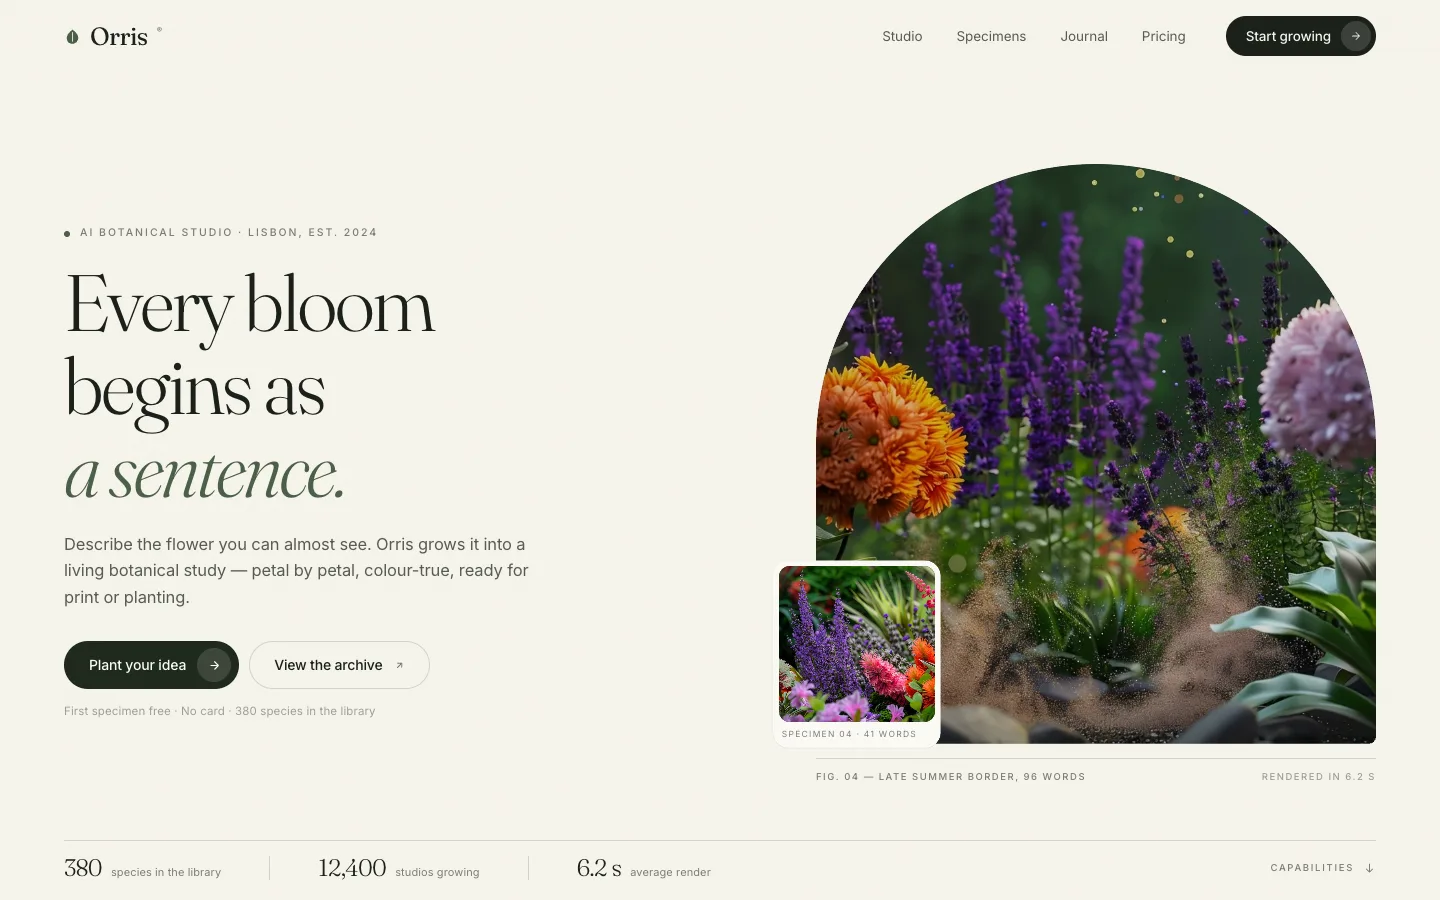
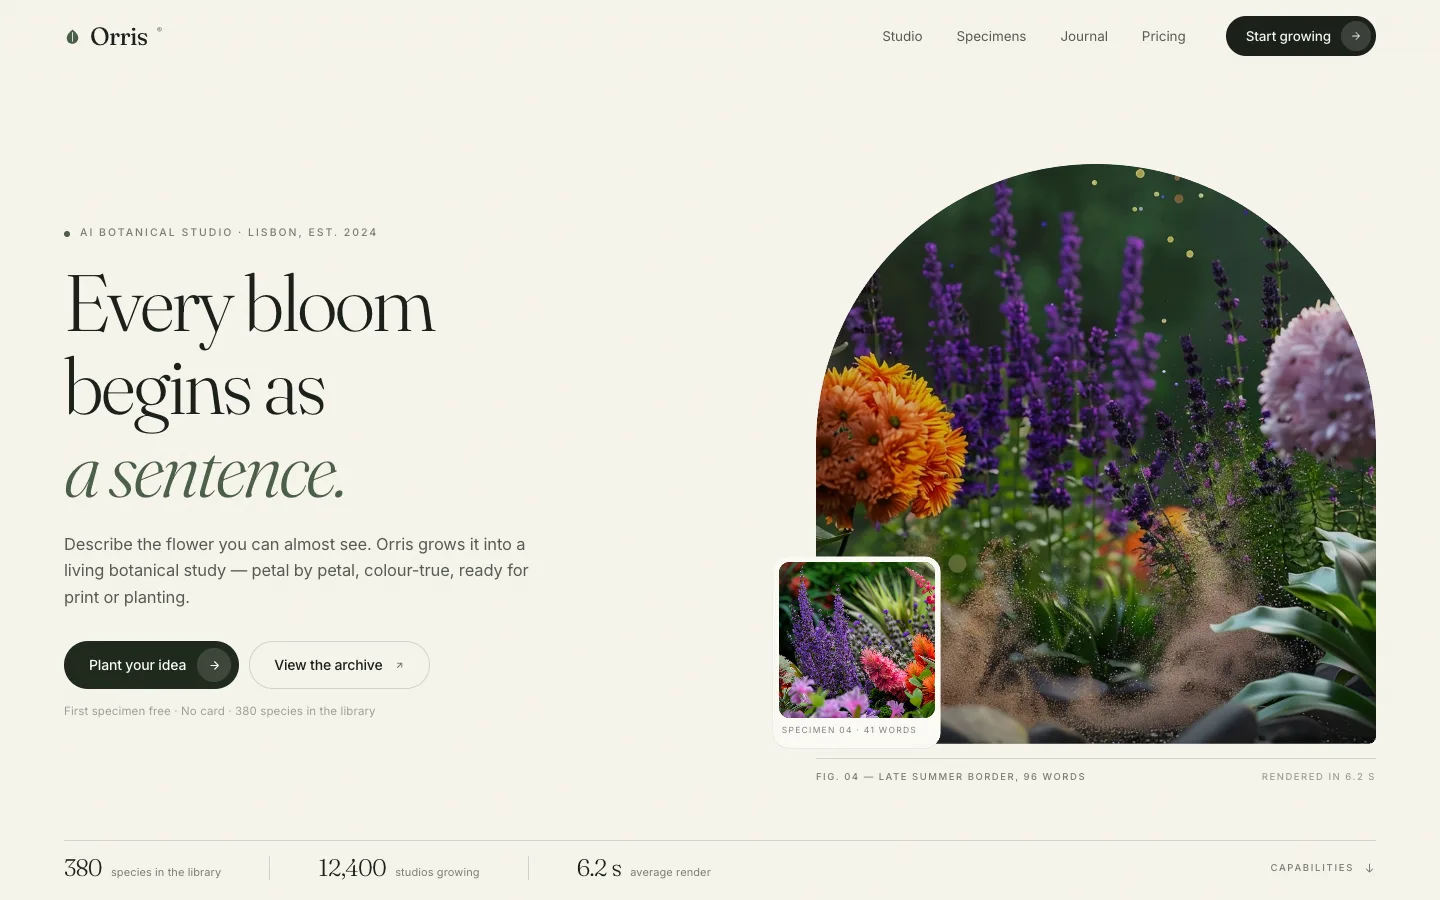
Refresh Orris and Marquee, tighten specimen card, keep optimized assets

Changed region(s): [[0.5312, 0.5911, 0.6562, 0.84]]

diff --git a/demos/11-bloom-botanical/index.html b/demos/11-bloom-botanical/index.html
@@ -258,7 +258,7 @@ html.js .plate__frame.is-in img{transition:transform 2.2s var(--ease-out-expo)}
 .thumb{
   position:absolute;left:clamp(-52px,-3vw,-24px);bottom:clamp(22px,4vh,44px);
   width:clamp(112px,13.5vw,168px);
-  padding:6px 6px 8px;border-radius:16px;background:var(--paper);
+  padding:6px 6px 12px;border-radius:16px;background:var(--paper);
   box-shadow:0 18px 44px rgba(26,33,26,.2),0 2px 6px rgba(26,33,26,.08);
   clip-path:inset(0 0 0 0 round 16px);
 }
@@ -268,7 +268,7 @@ html.js .thumb.is-in{
   transition:clip-path 1.15s var(--ease-out-expo),opacity .7s ease,transform 1s var(--ease-out-expo);
 }
 .thumb img,.thumb video{width:100%;aspect-ratio:1/1;object-fit:cover;object-position:50% 60%;border-radius:11px;background:#101510}
-.thumb figcaption{
+.thumb__cap{display:block;
   padding:7px 3px 0;font-size:8.5px;line-height:1.3;letter-spacing:.15em;text-transform:uppercase;color:var(--ink-56);
 }
 
@@ -486,7 +486,7 @@ html.js .reveal.is-in{opacity:1;transform:none;transition:opacity .8s var(--ease
         <div class="thumb">
           <img src="https://d8j0ntlcm91z4.cloudfront.net/user_38xzZboKViGWJOttwIXH07lWA1P/hf_20260412_055431_11d841fd-8b41-46a5-82e4-b04f2407a7d8.png"
                alt="Close-up botanical study in pink, orange and lilac" loading="lazy" decoding="async">
-          <figcaption>Specimen 04 · 41 words</figcaption>
+          <span class="thumb__cap">Specimen 04 · 41 words</span>
         </div>
         <figcaption class="plate__cap"><span>Fig. 04 — Late summer border, 96 words</span><span>Rendered in 6.2 s</span></figcaption>
       </figure>

diff --git a/demos/12-portal-cinema/index.html b/demos/12-portal-cinema/index.html
@@ -196,7 +196,7 @@ html.js .plate__video.is-ready{
 }
 
 /* ---------- hero copy ---------- */
-.hero{width:100%;max-width:900px}
+.hero{position:relative;width:100%}
 .eyebrow{
   display:flex;align-items:center;gap:10px;
   font-size:10.5px;font-weight:500;line-height:1.2;letter-spacing:.2em;text-transform:uppercase;color:var(--ink-74);
@@ -263,7 +263,8 @@ html.js .plate__video.is-ready{
 .award{
   display:none;
   margin-left:auto;padding-left:32px;border-left:1px solid var(--line-soft);
-  text-align:right;font-size:9.5px;line-height:1.7;letter-spacing:.16em;text-transform:uppercase;color:var(--ink-40);
+  text-align:right;font-size:9.5px;line-height:1.7;letter-spacing:.16em;text-transform:uppercase;color:rgba(242,241,234,.56);
+  text-shadow:0 1px 12px rgba(0,0,0,.55);
 }
 .award b{display:block;font-weight:500;color:var(--ink-56)}
 @media (min-width:1080px){.award{display:block}}
@@ -398,7 +399,7 @@ html.js .plate__video.is-ready{
 @media (max-width:380px){
   .meta li.dir{display:none}
 }
-@media (max-height:780px) and (min-width:861px){
+@media (max-height:840px) and (min-width:861px){
   .stage__in{padding-top:92px;gap:18px}
   .lockup{font-size:clamp(46px,5.4vw,76px)}
   .sub{font-size:14.5px}
